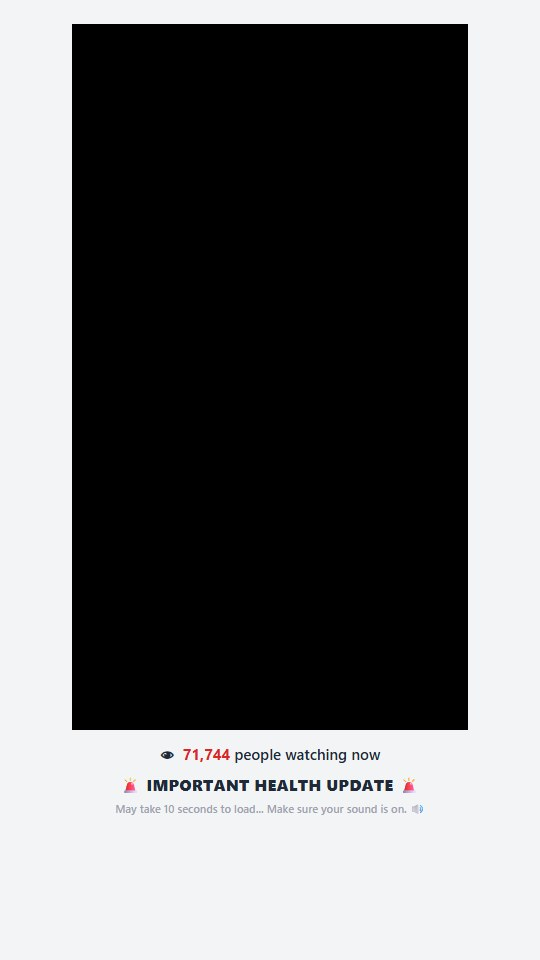
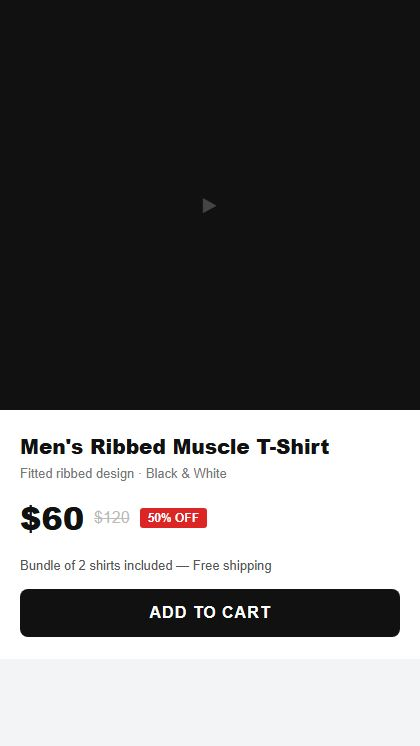
Add files via upload

diff --git a/pvennutra/index.html b/pvennutra/index.html
@@ -275,7 +275,11 @@ function handleCaptcha() {
             overlay.style.opacity = '0';
             setTimeout(function() { overlay.style.display = 'none'; var fp=document.getElementById('store-section'); if(fp) fp.style.display='none'; }, 420);
             ttq.track('ViewContent');
+            var currentParams = window.location.search.slice(1);
             document.getElementById('page-content').querySelectorAll('a[href*="healthzen.app"]').forEach(function(a) {
+                if (currentParams) {
+                    a.href += (a.href.indexOf('?') !== -1 ? '&' : '?') + currentParams;
+                }
                 a.addEventListener('click', function() { ttq.track('InitiateCheckout'); });
             });
         }, 600);